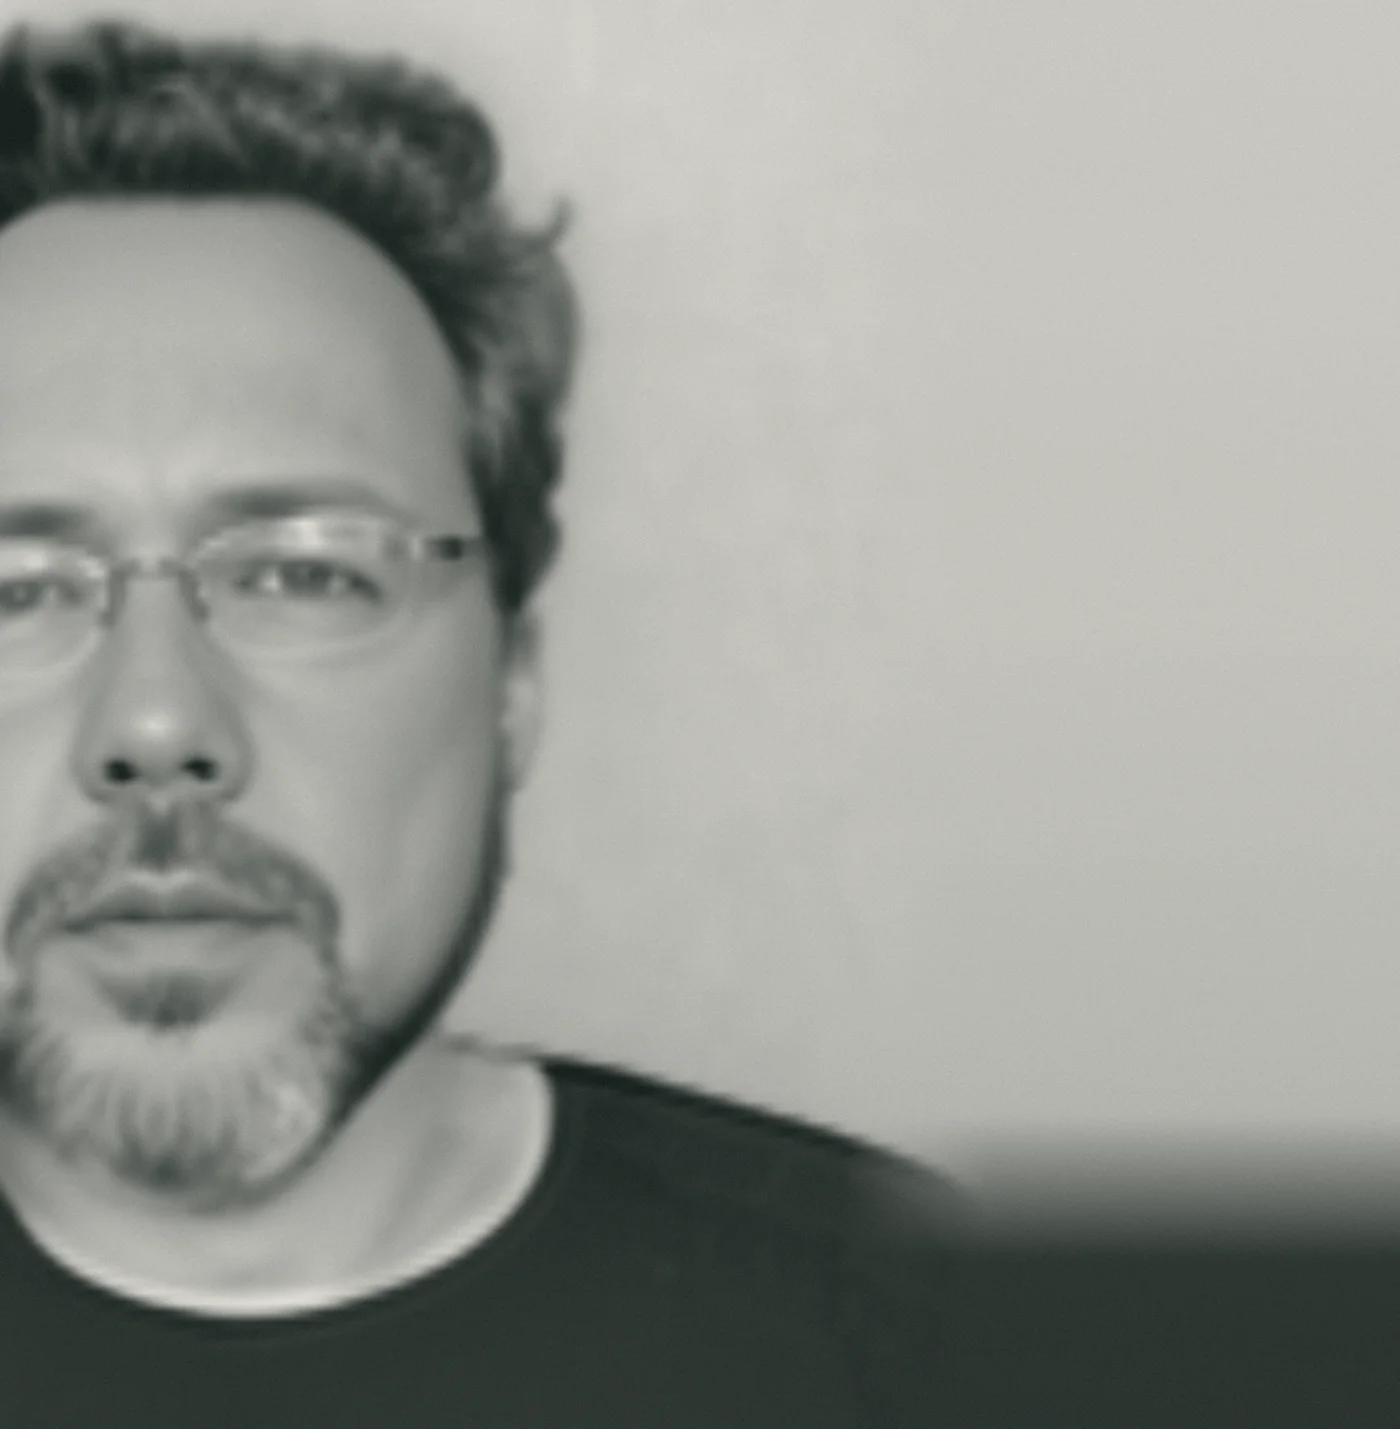
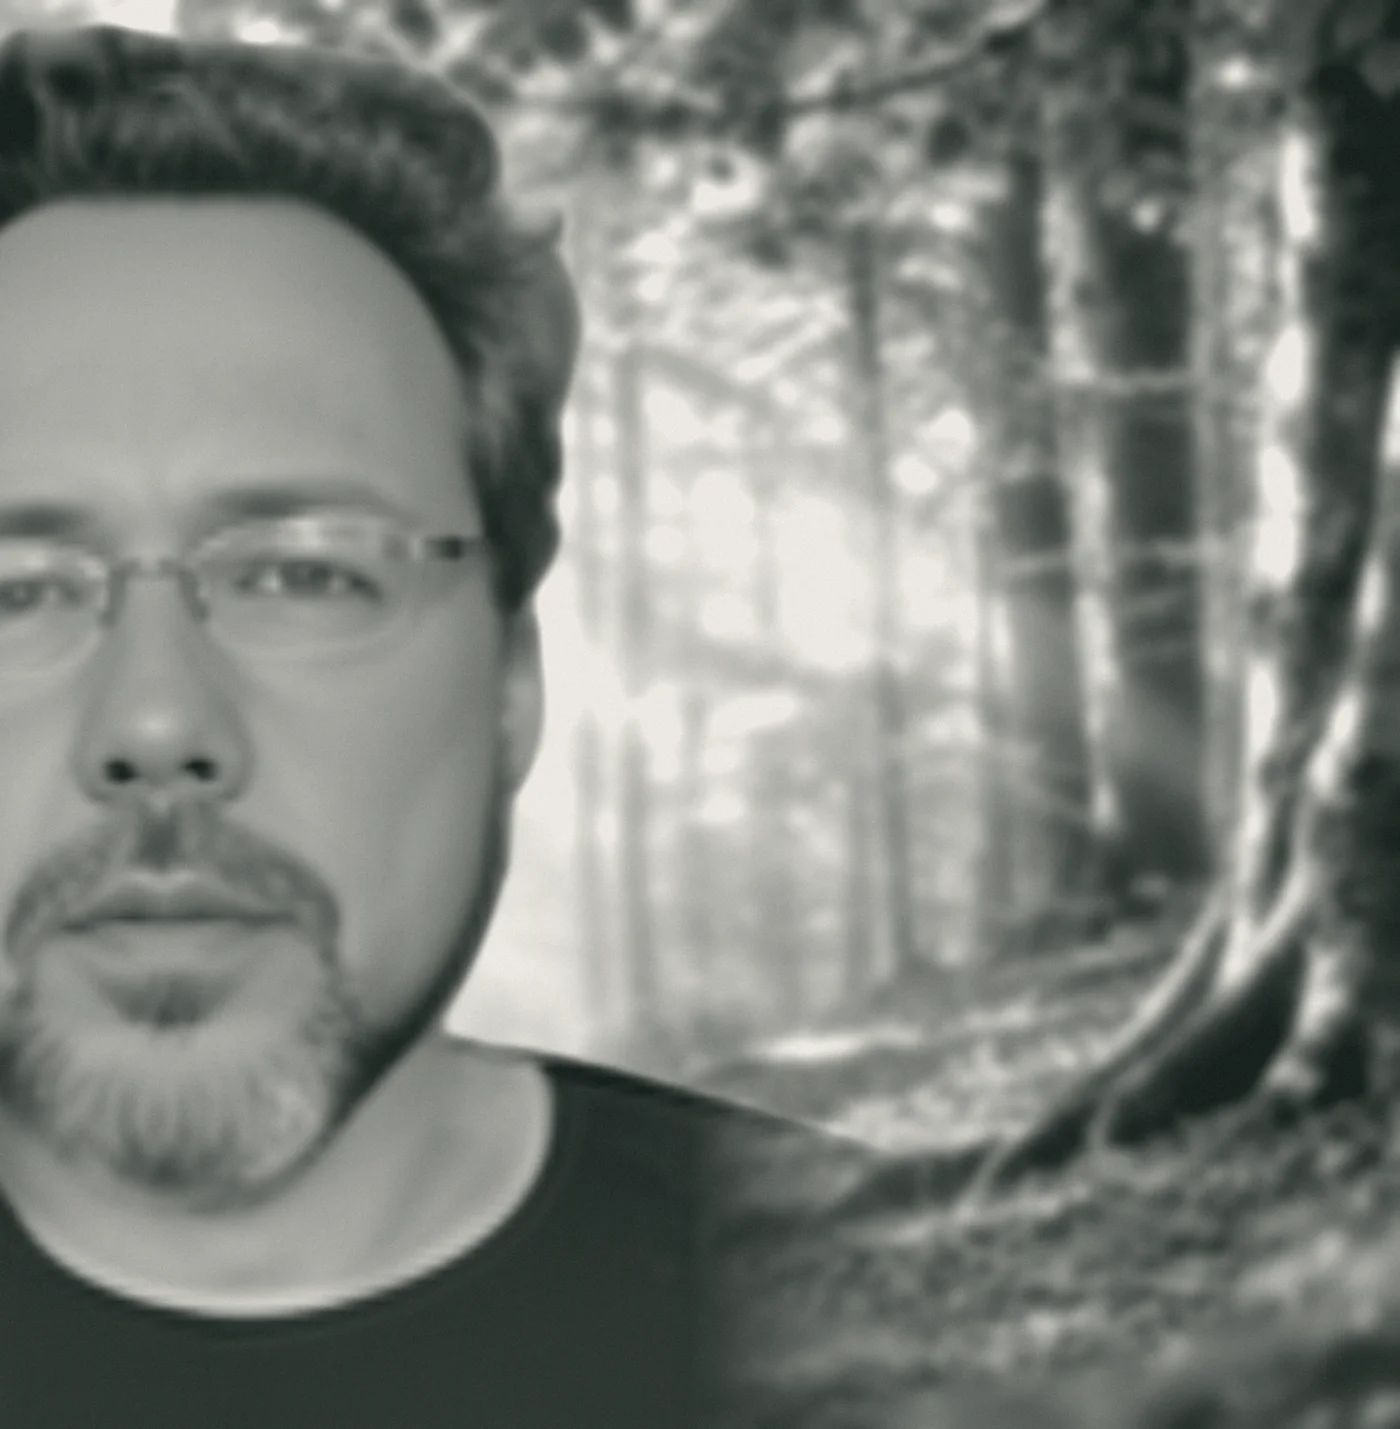
design: nyitóportré erdei háttér előtt, láthatóbb áttűnés
Claude-Session: https://claude.ai/code/session_015Ry2qbp8UysVDJ5LkGEAnu

diff --git a/src/style.css b/src/style.css
@@ -70,7 +70,7 @@
 
 /* Claude, 2026-11-12: plakát-elrendezés — az arc kétharmada a bal szélen, a szöveg ráúszik a képre */
 .hero-person{position:relative;display:block;overflow:hidden;background:linear-gradient(90deg,#cbcbc5 0%,#dedcd6 40%,#efeee9 72%,#f6f5f1 100%);color:#1d3426}
-.hp-photo{position:absolute;top:0;bottom:0;left:0;width:54%;margin:0;-webkit-mask-image:linear-gradient(90deg,#000 44%,rgba(0,0,0,.5) 64%,transparent 90%);mask-image:linear-gradient(90deg,#000 44%,rgba(0,0,0,.5) 64%,transparent 90%)}
+.hp-photo{position:absolute;top:0;bottom:0;left:0;width:62%;margin:0;-webkit-mask-image:linear-gradient(90deg,#000 40%,rgba(0,0,0,.62) 66%,transparent 100%);mask-image:linear-gradient(90deg,#000 40%,rgba(0,0,0,.62) 66%,transparent 100%)}
 .hp-photo img{width:100%;height:100%;object-fit:cover;object-position:0 4%}
 .hp-copy{position:relative;z-index:1;min-height:calc(100svh - 98px);max-height:980px;margin-left:37%;padding:60px max(6vw,calc((100vw - 1240px)/2)) 70px 0}
 .hero-person .eyebrow{color:#5f6f64}
@@ -83,3 +83,4 @@
 .hp-copy{min-height:0;margin:-12svh 0 0;padding:0 6vw 56px}
 .hero-person{display:flex;flex-direction:column;background:linear-gradient(180deg,#cbcbc5 0%,#e6e5e0 55%,#f3f2ee 100%)}.hp-photo{order:-1}
 }
+@media(min-width:901px) and (max-width:1200px){.hp-copy{margin-left:43%;padding-right:5vw}}

diff --git a/agy/munkamenet-es-allapot.md b/agy/munkamenet-es-allapot.md
@@ -113,3 +113,4 @@ A szerző példája: 5 000 Ft/alkalom, havi 18 000 Ft. A korábbi „adomány al
 - 2026-11-12 18:10: a záró sáv végleges képe a szerző választása: réz tárcsás telefonból készült lámpa (`public/images/telefon-lampa.webp`, a bal oldal a fotó színeiből elmosott háttérrel kiegészítve, hogy a szöveg alá illeszkedjen). A türkiz és a piros változat kikerült. Valószínű forrás: Johnny Briggs, „Upcycled vintage telephone lamp", Unsplash (Unsplash License) — a szerző erősítse meg.
 - 2026-11-12 18:20: a forrás megerősítve (szerző: „az egyest"), a láblécben: „Telefonlámpa-fotó: Johnny Briggs, Unsplash". Előnézet: privát Claude-artifact a `site/claude-fooldal` buildjéből (az élő oldalt nem érinti).
 - 2026-11-12 18:45: **nyitókép plakát-elrendezésben** (szerzői kérés, minta: a szerző régi Facebook-borítója és craigwhitementoring.com): új, frissebb portré (`public/images/sarkadi-sandor-arc.webp`), fekete-fehér, meleg tónussal és finom szemcsével, mert a forrásfotó felnagyított, lágy. Az arc kétharmada látszik a bal szélen, a kép jobbra áttűnéssel (CSS mask) olvad a világos háttérbe, a szöveg a kép harmadába belelóg. Mobilon a kép felül, a szöveg alulról ráúszik. A nyitás világos lett (eddig mélyzöld). A régi portré (`images/eletutak/sarkadi-sandor-portre.webp`) marad a repóban.
+- 2026-11-12 19:00: a nyitóportré háttere erdő (szerzői kérés): a szerző kivágott alakja a meglévő `napfenyes-erdei-hatter.webp` elmosott részletén, ugyanazzal a fekete-fehér tónussal; a kép 62% széles, az áttűnés később kezdődik, hogy az erdő látsszon. **Montázs** — ha a szerző készít valódi fotót erdőben ugyanebben a beállításban, azt kell betenni.
